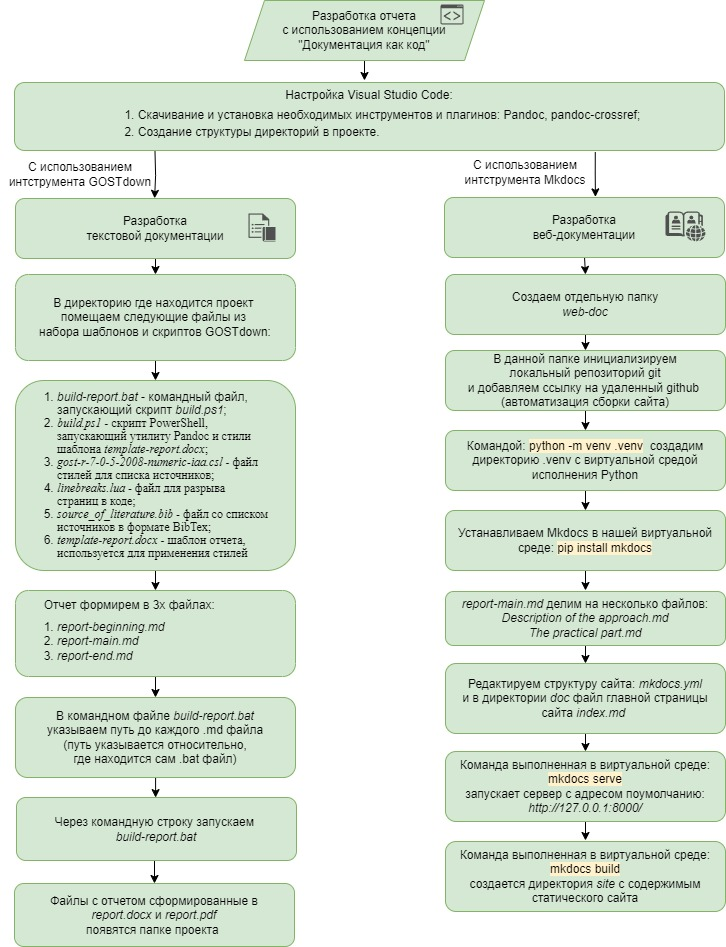
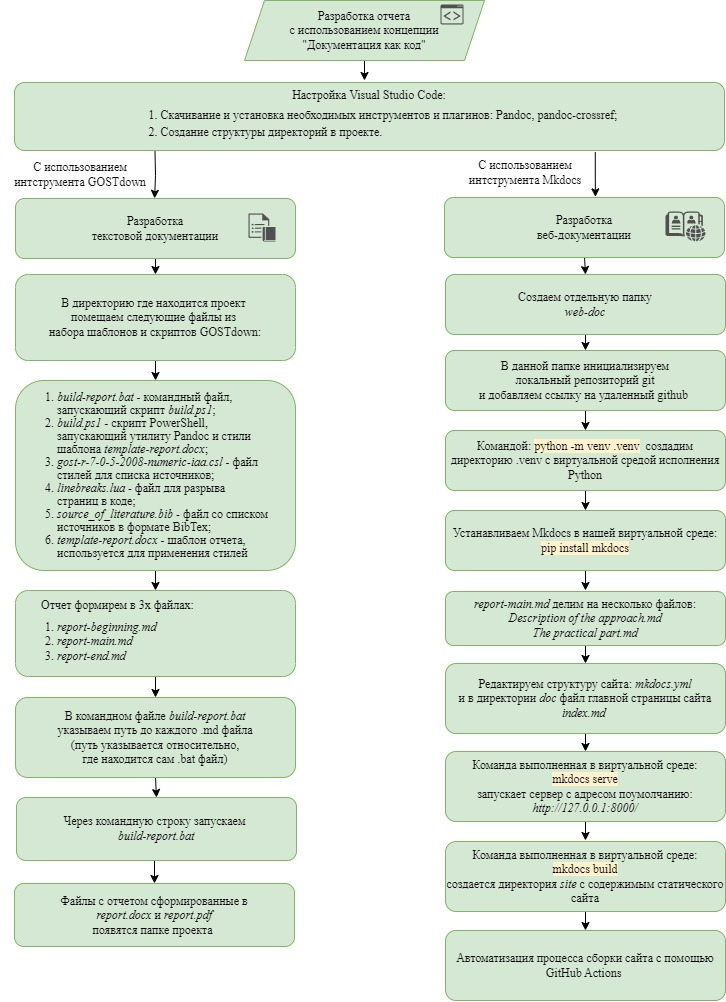
Изменил практическую часть отчета, добавил скрины и поправил mkdocs.yml

diff --git a/web-source/web-doc/docs/The practical part.md b/web-source/web-doc/docs/The practical part.md
@@ -8,7 +8,7 @@
 2. Редактор кода `Visual Studio Code` - для создания струтуры проекта и работы с файлами, как показано на рисунке.
 3. Язык разметки `Markdown` - для написание отчета.
 4. `Pandoc` и плагин к нему `pandoc-crossref` - это универсальная утилита для работы с текстовыми форматами, например преобразует `.docx` в `markdown` и наоборот.
-5. GOSTdown - набор шаблонов и скриптов для автоматической вёрстки отчета в форматы `.docx` и `.pdf`.
+5. GOSTdown - набор шаблонов и скриптов, позволяющий пользователям работать над содержательной частью документа в формате `Markdown`, получая на выходе автоматически собранный документ в формате `.docx`, не требующий ручной доработки. GOSTdown основан на универсальном конвертере документов Pandoc и скриптовом языке Powershell.
 6. `Mkdocs` - это бесплатный статический генератор сайтов, предназначенный для создания проектной документации. Пример созданного статического сайта представлен на рисунке.
 7. `Python` - для использования mkdocs (который написан на Python) и вспомогательные скрипты.
 
@@ -39,11 +39,11 @@
     - чтобы выполнять команды в этой среде нужно её активировать. Выполним следующу команду: `.\.venv\Scripts\activate`.
 2. Установим `Mkdocs`, выполнив команду в нашей виртуальной среде: `pip install mkdocs`;
 3. Создается директория docs, где по умолчанию располагается файл index.md, его содержимое будет отображаться на главной странице сайта         (отредактируем данный файл и добавим два раздела с основной части отчета);
-4. Внутри директории проекта будет создан файл mkdocs.yml для настройки структуры сайта, отредактируем его следующим образом:
+4. Внутри директории проекта будет создан файл `mkdocs.yml` для настройки структуры сайта, отредактируем его следующим образом:
 
 ``` yaml
 
-      site_name: Отчет по практической работе
+      site_name: Отчет по практике
       site_description: Практическая работа с применением инструментов концепции "Документация как Код".
       site_author: Vasilnyak Nikita
       repo_url: https://github.com/NikitaVasil/report_docs-as-code
@@ -67,7 +67,7 @@
 
 ```
 
-Сборка веб-документации:
+__Сборка веб-документации__
 
 1. Командой `mkdocs serve` - запускается сервер для отображения сайта, адрес поумолчанию `http://127.0.0.1:8000/`, как показано на рисунке ниже;
 
@@ -75,6 +75,120 @@
 
 2. Командой `mkdocs build` - создается директория site c содержимым статического сайта.
 
-Порядок действий при разработке технической документации с использованием подхода «Документация как Код» представлен на рисунке:
+__Порядок действий при разработке технической документации с использованием подхода «Документация как Код»__
 
 ![Схема разработки технической документации с применением подхода Docs-as-code](./img/Scheme_docs-as-code.jpg)
+
+## Автоматизация процесса сборки веб-документации с помощью GitHub Actions
+
+GitHub Actions - это платформа непрерывной интеграции и непрерывной поставки (CI/CD), которая позволяет автоматизировать конвейер сборки, тестирования и развертывания. С помощью Github Actions можно выполнять следующие действия:
+
+- запускать проверку кода линтером и тестами;
+- выполнять деплой проекта;
+- публиковать новую версию пакета;
+- подключать оповещения в мессенджер о событиях в репозитории (новые issue, PR) и многое другое.
+
+Общий принцип работы Github Actions заключается в создании в репозитории директории .github/workflows, в которой размещаются файлы с описанием шагов, необходимых для выполнения различных действий.
+
+Последовательность действий автоматизации процесса сборки веб-документации:
+
+1. Создаем в удаленном репозитории проекта в Actions(действие) новый Workflow(рабочий процесс), как показано на рисунке;
+   ![Создание New workflow](./img/new_workflow.jpg)
+2. При создании рабочего процесса можно выбрать шаблон, либо создать свою конфигурацию в формате `yaml`, как показано ниже и сохраняем:
+
+``` yml
+    name: mkdocs
+
+    on:
+      push:
+        branches:
+          - master
+        paths:
+          - "web-source/**"
+      workflow_dispatch:
+    permissions:
+      contents: write
+      pages: write
+      id-token: write
+
+    jobs:
+      build_mkdocs:
+        runs-on: ubuntu-latest
+
+        steps:
+          - name: Checkout code
+            uses: actions/checkout@v4
+            with:
+              fetch-depth: 0
+          - uses: actions/setup-python@v5
+            with:
+              python-version: 3.12.1
+          - run: pip install \
+              mkdocs-material
+          - run: mkdocs gh-deploy --config-file web-source/web-doc/mkdocs.yml --force
+
+      deploy_mkdocs:
+        needs: build_mkdocs
+        environment:
+          name: github-pages
+          url: ${{ steps.deployment.outputs.page_url }}
+        runs-on: ubuntu-latest
+        steps:
+          - name: Checkout
+            uses: actions/checkout@v4
+            with:
+              ref: gh-pages
+          - name: Setup Pages
+            uses: actions/configure-pages@v5
+          - name: Upload artifact
+            uses: actions/upload-pages-artifact@v3
+            with:
+              path: "."
+          - name: Deploy to GitHub Pages
+            id: deployment
+            uses: actions/deploy-pages@v4
+```
+
+Для выполнения определенных действий рабочему процессу необходимо предоставить разрешения, такие как `contents, pages, id-token`.
+
+В своем рабочем процессе я буду использовать две задачи:
+
+- Этапы (build_mkdocs) сборки веб-документации:
+    1. Проверяет главную ветку;
+    2. Устанавливает(настраивает) `Python`;
+    3. Устанавливает `mkdocs` и плагин(тему) к нему `mkdocs_material`;
+    4. Запускает `mkdocs gh-deploy` - сайт развернется в ветку по умолчанию `gh-pages`.
+- Этапы (deploy_mkdocs) развертывания веб-документации:
+    1. Проверяет код из `gh-pages` ветки.
+    2. Настраивает страницы GitHub.
+    3. Загружает артефакты.
+    4. Развертывает загруженные артефакты на GitHub Pages с помощью действия «actions/deploy-pages».
+
+Данный рабочий процесс будет выполняться автоматически в том случае, если мы вносим изменения командой `git push origin <name_branch>` на удаленный репозиторий в папке `web-source/`. Успешное выполнение автоматического рабочего процесса с сформированной ссылкой на развернутый сайт показано на рисунке ниже.
+
+![Рабочий процесс](./img/success_in_workflow.jpg)
+
+Ссылка на развернутый сайт: [Сайт отчета по практике](https://nikitavasil.github.io/report_docs-as-code/)
+Ссылка на github репозиторий: [Удаленный репозиторий](https://github.com/NikitaVasil/report_docs-as-code)
+
+## Вывод о проделанной работе
+
+При прохождении практики приобрел следующие навыки:
+
+1. Научился применять инструмент `GOSTdown` при разработке технической документации. Предварительно настроил исполняемый `.bat` файл и текстовый шаблон в формате `.docx`. На выходе получил документ оформленный в соответствии с ГОСТ, но с небольшой корректировкой финального файла в WYSIWYG редакторе.
+
+2. Познакомился с инструментом `Mkdocs` при генерации статического сайта. Рассмотрели автоматизацию процесса генерации статического сайта при помощи Actions (действий) GitHub. На выходе получил качественную веб-документацию, которую можно использовать, как Инструкцию для внешних пользователей или внутреннюю документацию (База знаний).
+
+При разработке отчета с применением подхода "Документация как Код" для себя выделил следующие достоинства:
+
+> автоматизация процесса документирования;
+> применение тех же инструментов, что и при разработке ПО;
+> удобное отслеживание изменений в версиях документов;
+> улучшения качества документации (автоматические проверки, такие как линтеры и тесты, могут быть применены к документации так же, как и к коду);
+> снижает затраты на поддержку и обновление документации (уменьшает риск возникновения устаревшей или некорректной документации);
+> задел на будущее для разработки внутреннего портала документации.
+
+К существенным недостаткам можно отнести _повышенный порог технических навыков_ для специалистов, которые занимаются разработкой документации и используют WYSIWYG редакторы при разарботке технических документов, что на данный момент может показаться удобнее и интуитивно понятнее. Поэтому необходимо понимать, что данный подход имеет место быть среди тех специалистов, у которых имеется определенный уровень подготовки.
+
+Разработанная документация в формате `Markdown`, заслуженно пользуется популярностью в документации современного ПО, в веб-программировании и в электронных изданиях, а с недавнего времени еще и используется для создания полноценных документов, соответствующих требованиям российских государственных организаций. Текстовая основа формата позволяет использовать богатые возможности систем контроля версий.
+Таким образом эффективность применения подхода "Документация как Код" при разработке технической документации обусловлена вышеупомянутыми достоинствами с минимальным недостатком, который решается получением навыков при прохождении учебных курсов.
